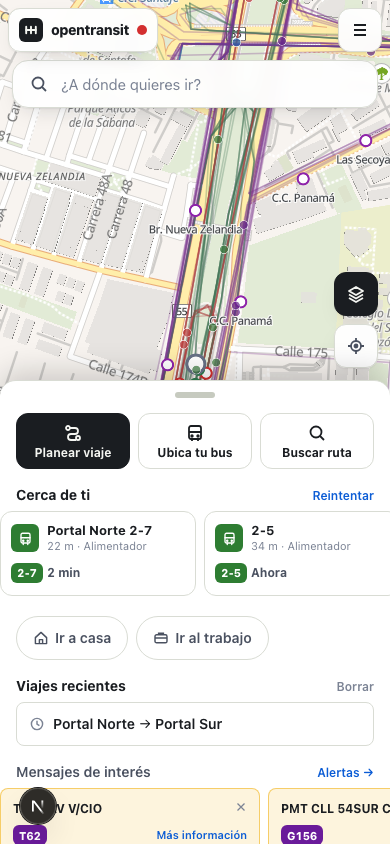
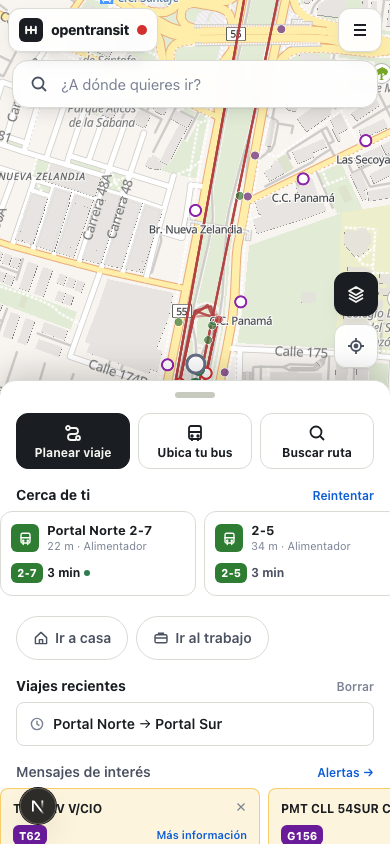
Network layer split: Red troncal backbone (on) vs Rutas zonales (off) with separate Capas toggles; stop markers 4 px without labels below zoom 15
Claude-Session: https://claude.ai/code/session_01SDzEabQrP5XzwyWhHfsXyV

diff --git a/src/app/[city]/page.tsx b/src/app/[city]/page.tsx
@@ -68,19 +68,26 @@ function FleetInView({ city, enabled, colors, onClick }: { city: string; enabled
   return on && vehicles.length ? <VehiclesLayer vehicles={vehicles} colors={colors} onClick={(v) => onClick(v.id)} /> : null;
 }
 
-function NetworkInView({ city, enabled }: { city: string; enabled: boolean }) {
-  const net = useNetwork(city, enabled);
-  return enabled && net.data ? <NetworkLayer shapes={net.data.shapes} opacity={0.3} /> : null;
+function NetworkInView({ city, trunk, zonal }: { city: string; trunk: boolean; zonal: boolean }) {
+  const net = useNetwork(city, trunk || zonal);
+  if (!net.data) return null;
+  return (
+    <>
+      {zonal ? <NetworkLayer shapes={net.data.shapes} group="zonal" /> : null}
+      {trunk ? <NetworkLayer shapes={net.data.shapes} group="trunk" /> : null}
+    </>
+  );
 }
 
 /** Layer popover + locate button, rendered inside the map so they can read the zoom. */
-function MapControls({ city, live, setLive, pois, setPois, net, setNet, onLocate, locating }: { city: string; live: boolean; setLive: (v: boolean) => void; pois: boolean; setPois: (v: boolean) => void; net: boolean; setNet: (v: boolean) => void; onLocate: () => Promise<{ lat: number; lon: number } | null>; locating: boolean }) {
+function MapControls({ city, live, setLive, pois, setPois, net, setNet, zonal, setZonal, onLocate, locating }: { city: string; live: boolean; setLive: (v: boolean) => void; pois: boolean; setPois: (v: boolean) => void; net: boolean; setNet: (v: boolean) => void; zonal: boolean; setZonal: (v: boolean) => void; onLocate: () => Promise<{ lat: number; lon: number } | null>; locating: boolean }) {
   const { t } = useI18n();
   const cityCfg = resolveConfig(useCityCtx());
   const zoom = useMapZoom();
   const items = [
     ...(cityCfg.features.liveVehicles ? [{ key: "live", label: t.layers.live, on: live, onChange: setLive, hint: liveAutoOn(zoom) ? t.layers.liveHint : t.layers.liveZoomHint }] : []),
-    { key: "network", label: t.layers.network, on: net, onChange: setNet, hint: t.layers.networkHint },
+    { key: "network", label: t.layers.networkTrunk, on: net, onChange: setNet, hint: t.layers.networkTrunkHint },
+    { key: "zonal", label: t.layers.networkZonal, on: zonal, onChange: setZonal, hint: t.layers.networkZonalHint },
     ...(cityCfg.features.pois ? [{ key: "pois", label: t.layers.pois, on: pois, onChange: setPois, hint: t.layers.poisHint }] : []),
   ];
   return (
@@ -119,6 +126,7 @@ function Planner() {
   const [showPois, setShowPois] = useState(false);
   const [showLive, setShowLive] = useState(true);
   const [showNet, setShowNet] = useState(true);
+  const [showZonal, setShowZonal] = useState(false);
   const [liveCount, setLiveCount] = useState(0);
   const geo = useGeolocation();
 
@@ -347,7 +355,7 @@ function Planner() {
       map={
         <MapView center={[city.center.lon, city.center.lat]} zoom={city.defaultZoom} attribution={city.attribution} onClick={onMapClick} className={`h-full w-full ${picking ? "cursor-crosshair" : ""}`}>
           <ZoomGate min={12} force={false}>
-            <NetworkInView city={city.id} enabled={showNet && !selected} />
+            <NetworkInView city={city.id} trunk={showNet && !selected} zonal={showZonal && !selected} />
           </ZoomGate>
           {!selected && nearby.data ? <StopsLayer stops={nearby.data.stops} onClick={(s) => router.push(`/${city.id}/stops/${encodeURIComponent(s.id)}`)} /> : null}
           <ItineraryLayer itinerary={selected} />
@@ -358,7 +366,7 @@ function Planner() {
           {draft.from ? <PinMarker kind="from" lat={draft.from.lat} lon={draft.from.lon} /> : null}
           {draft.to ? <PinMarker kind="to" lat={draft.to.lat} lon={draft.to.lon} /> : null}
           {geo.pos ? <PinMarker kind="user" lat={geo.pos.lat} lon={geo.pos.lon} /> : null}
-          <MapControls city={city.id} live={showLive} setLive={setShowLive} pois={showPois} setPois={setShowPois} net={showNet} setNet={setShowNet} onLocate={() => locateFor("hub")} locating={locating === "hub"} />
+          <MapControls city={city.id} live={showLive} setLive={setShowLive} pois={showPois} setPois={setShowPois} net={showNet} setNet={setShowNet} zonal={showZonal} setZonal={setShowZonal} onLocate={() => locateFor("hub")} locating={locating === "hub"} />
           <span className="sr-only">{LIVE_MIN_ZOOM}</span>
         </MapView>
       }

diff --git a/src/components/map/layers.tsx b/src/components/map/layers.tsx
@@ -9,7 +9,7 @@ import { desaturate, routeChipColors } from "@/lib/route-color";
 import { LIVE_DETAIL_ZOOM, LIVE_MIN_ZOOM } from "@/lib/marker-style";
 import { ETA_COLORS, etaBucket } from "@/lib/eta";
 import { bboxOf, decodeGeometry, fc, toLineString, toPoint, type BBox, type LngLat } from "@/lib/geo";
-import type { Geometry, Itinerary, NetworkShape, PoiCollection, PoiType, Stop, Vehicle } from "@/lib/api/types";
+import type { Component, Geometry, Itinerary, NetworkShape, PoiCollection, PoiType, Stop, Vehicle } from "@/lib/api/types";
 import type { FeatureCollection } from "geojson";
 
 type DistributiveOmit<T, K extends keyof never> = T extends unknown ? Omit<T, K> : never;
@@ -192,24 +192,37 @@ export function LineLayer({ id, geometry, color, width = 4, fit = false }: { id:
  * overlapping shapes on the same corridor, so lines use the desaturated component
  * colour, stay ≤ 2 px and sit well below the labels.
  */
-export function NetworkLayer({ shapes, opacity = 0.3 }: { shapes: NetworkShape[]; opacity?: number }) {
+export const NETWORK_GROUPS = {
+  /** "Red troncal": the backbone (BRT + cable). ON by default. */
+  trunk: { components: ["trunk", "cable", "rail"] as Component[], width: 2.5, opacity: 0.5 },
+  /** "Rutas zonales": zonal + dual + feeder — hundreds of overlapping shapes, OFF by default. */
+  zonal: { components: ["zonal", "dual", "feeder", "other"] as Component[], width: 1.5, opacity: 0.18 },
+};
+
+export function NetworkLayer({ shapes, group = "trunk" }: { shapes: NetworkShape[]; group?: keyof typeof NETWORK_GROUPS }) {
+  const g = NETWORK_GROUPS[group];
   const data = useMemo(
-    () => fc(shapes.map((s) => toLineString(decodeGeometry(s.geometry), { color: desaturate(routeChipColors(s.color, componentColor(s.component)).bg, 0.35), c: s.component }))),
-    [shapes],
+    () =>
+      fc(
+        shapes
+          .filter((s) => g.components.includes(s.component))
+          .map((s) => toLineString(decodeGeometry(s.geometry), { color: desaturate(routeChipColors(s.color, componentColor(s.component)).bg, 0.3), c: s.component })),
+      ),
+    [shapes, g],
   );
   useGeoJsonLayer(
-    "network",
+    `network-${group}`,
     data,
     [
       {
-        id: "network-line",
+        id: `network-${group}-line`,
         type: "line",
         layout: { "line-join": "round", "line-cap": "round" },
         paint: {
           "line-color": ["get", "color"],
-          "line-width": ["interpolate", ["linear"], ["zoom"], 10, 0.5, 14, 1.1, 17, 2],
+          "line-width": ["interpolate", ["linear"], ["zoom"], 10, g.width * 0.4, 14, g.width * 0.7, 17, g.width],
           // fades in with zoom: at city scale a thousand shapes would otherwise cover the basemap
-          "line-opacity": ["interpolate", ["linear"], ["zoom"], 11, opacity * 0.35, 13.5, opacity * 0.7, 15, opacity],
+          "line-opacity": ["interpolate", ["linear"], ["zoom"], 11, g.opacity * 0.5, 14, g.opacity],
         },
       },
     ],
@@ -243,16 +256,17 @@ export function StopsLayer({ stops, onClick, id = "stops" }: { stops: Stop[]; on
         id: `${id}-circle`,
         type: "circle",
         paint: {
-          "circle-radius": ["interpolate", ["linear"], ["zoom"], 11, ["case", ["get", "station"], 4, 2], 15, ["case", ["get", "station"], 8, 5]],
+          // < 15: 4 px dots (2 px radius, thin ring, no label); ≥ 15: full markers
+          "circle-radius": ["interpolate", ["linear"], ["zoom"], 11, ["case", ["get", "station"], 2.5, 1.5], 14.9, ["case", ["get", "station"], 3, 2], 15, ["case", ["get", "station"], 8, 5]],
           "circle-color": "#ffffff",
           "circle-stroke-color": ["get", "color"],
-          "circle-stroke-width": ["case", ["get", "station"], 3, 2],
+          "circle-stroke-width": ["step", ["zoom"], ["case", ["get", "station"], 1.5, 1], 15, ["case", ["get", "station"], 3, 2]],
         },
       },
       {
         id: `${id}-label`,
         type: "symbol",
-        minzoom: 13.5,
+        minzoom: 15,
         layout: {
           "text-field": ["get", "name"],
           "text-size": 11,

diff --git a/src/lib/i18n/dict.ts b/src/lib/i18n/dict.ts
@@ -15,6 +15,10 @@ export const dict = {
       poisHint: "Cicloparqueaderos, baños, cajeros, salud",
       network: "Red de rutas",
       networkHint: "Trazados de todas las rutas",
+      networkTrunk: "Red troncal",
+      networkTrunkHint: "Troncales y cable",
+      networkZonal: "Rutas zonales",
+      networkZonalHint: "Zonales, duales y alimentadores (cientos de trazados)",
       locate: "Mi ubicación",
     },
     hub: {
@@ -424,6 +428,10 @@ export const dict = {
       poisHint: "Bike parking, toilets, ATMs, health",
       network: "Route network",
       networkHint: "Shapes of every route",
+      networkTrunk: "Trunk network",
+      networkTrunkHint: "BRT trunk lines and cable",
+      networkZonal: "Zonal routes",
+      networkZonalHint: "Zonal, dual and feeder routes (hundreds of shapes)",
       locate: "My location",
     },
     hub: {
